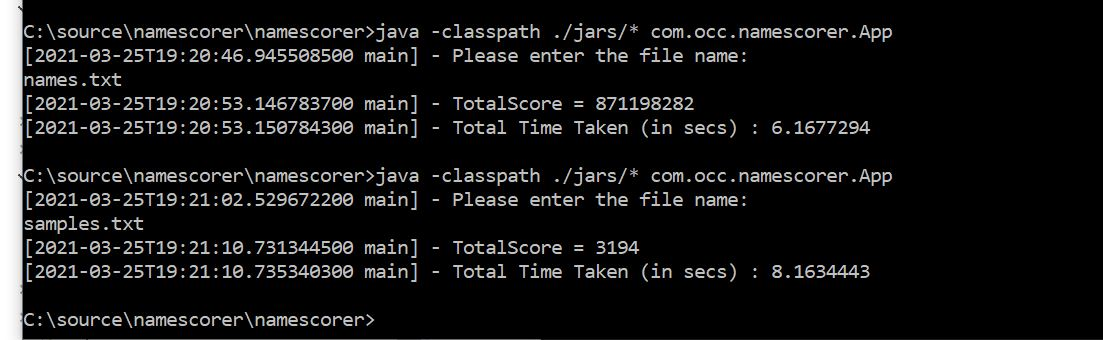
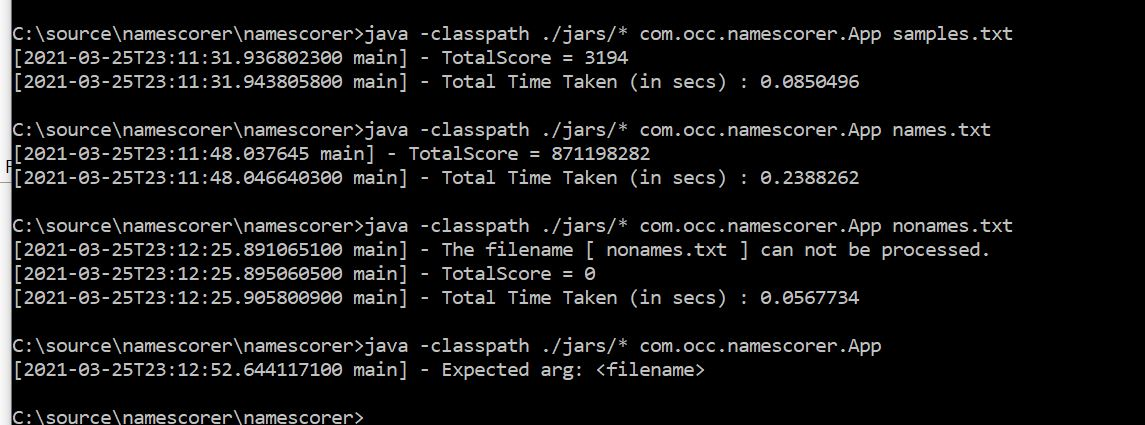
add imiages

Changed region(s): [[0.0, 0.0, 0.8939, 1.0]]

diff --git a/src/main/java/com/occ/namescorer/App.java b/src/main/java/com/occ/namescorer/App.java
@@ -3,7 +3,6 @@ package com.occ.namescorer;
 import java.io.File;
 import java.io.IOException;
 import java.net.URL;
-import java.util.Scanner;
 
 import com.occ.factory.NameScorer;
 import com.occ.service.impl.NameListReader;
@@ -24,15 +23,15 @@ import com.occ.util.TimerWatchUtil;
  */
 public class App 
 {
-	public static void main(String[] args) {
-		LoggerUtil.log("Please enter the file name: ");
-		Scanner scanner = new Scanner(System.in);
+	public static void main(String[] args) {		
 		
-		TimerWatchUtil.startTimer();
-		LoggerUtil.log("TotalScore = " + new App().scoreNames(scanner.nextLine()));
-		TimerWatchUtil.timeTaken();
-		
-		scanner.close();
+		if (args.length != 1) {
+			LoggerUtil.log("Expected arg: <filename>");
+		} else {
+			TimerWatchUtil.startTimer();
+			LoggerUtil.log("TotalScore = " + new App().scoreNames(args[0]));
+			TimerWatchUtil.timeTaken();
+		}	
 	}
 	
 	public int scoreNames(String p_file)  {		

diff --git a/README.md b/README.md
@@ -1,7 +1,7 @@
 # occnamescorer
 
 ## Name Scorer Project Overview
-*   This project is to calculate the scores from the list of names. The input is a file with first names and the output is a total score calculated form the names. The project is a maven project created on eclipse. pom.xml contains all the configuration details, dependenses, and build goals. The application is able to run on both ecpipse and command line.
+*   This project is to calculate the scores from the list of names. The input is a file with first names and the output is a total score calculated form the names. The project is a maven project created on eclipse. pom.xml contains all the configuration details, dependenses, and build goals. The application is able to run on both eclipse and command line.
 
 *   Java 8+
 *   Maven 3.6.3
@@ -23,16 +23,17 @@ obtain a score of 40 x 4 = 160.
 *   Input a source file from command line;
 *   Sort them alphabetically
 *   Calculation algorithm: 
-        ***   score name 
-        ***   its position
-        ***   calculate total
+    *   score name 
+    *   its position
+    *   calculate total
 *   Output to display
+*   Exception error handling
 
 # Design Pattern and Interface
 *   Composite Pattern.
 *   Abstract Factory Pattern.
 *   Input file reading interface to leave the data resource open.
-*   Calculation interface to derive other future calculation strategy.
+*   Calculation interface to derive other future calculation strategies.
 
 # Testing
 *   unit test case
@@ -41,6 +42,13 @@ obtain a score of 40 x 4 = 160.
 # Utility
 *   log utility
 *   StopWatch wrapper to measure overall application performance
+
+
+# Future Development - Phase II
+*   There are a few limitations with current phase. For next phase, we can make improvements:
+    *   The scoring feature can be added as a web-app
+    *   Switching from first names only to both first and last names
+
 
 ## Output
 
@@ -64,7 +72,7 @@ obtain a score of 40 x 4 = 160.
 
 
 
-    *   6 unit test cases were created including 1 perftest. 
+    *   6 unit test cases were created including 1 performance test. 
 
         ![node-image4](images/node4.JPG)
 
@@ -79,7 +87,7 @@ obtain a score of 40 x 4 = 160.
 
     *   With a success build, you can using this command to run the application:
 
-        java -classpath ./jars/* com.occ.namescorer.App
+        java -classpath ./jars/* com.occ.namescorer.App names.txt
 
         ![node-image6](images/node6.JPG)
 
